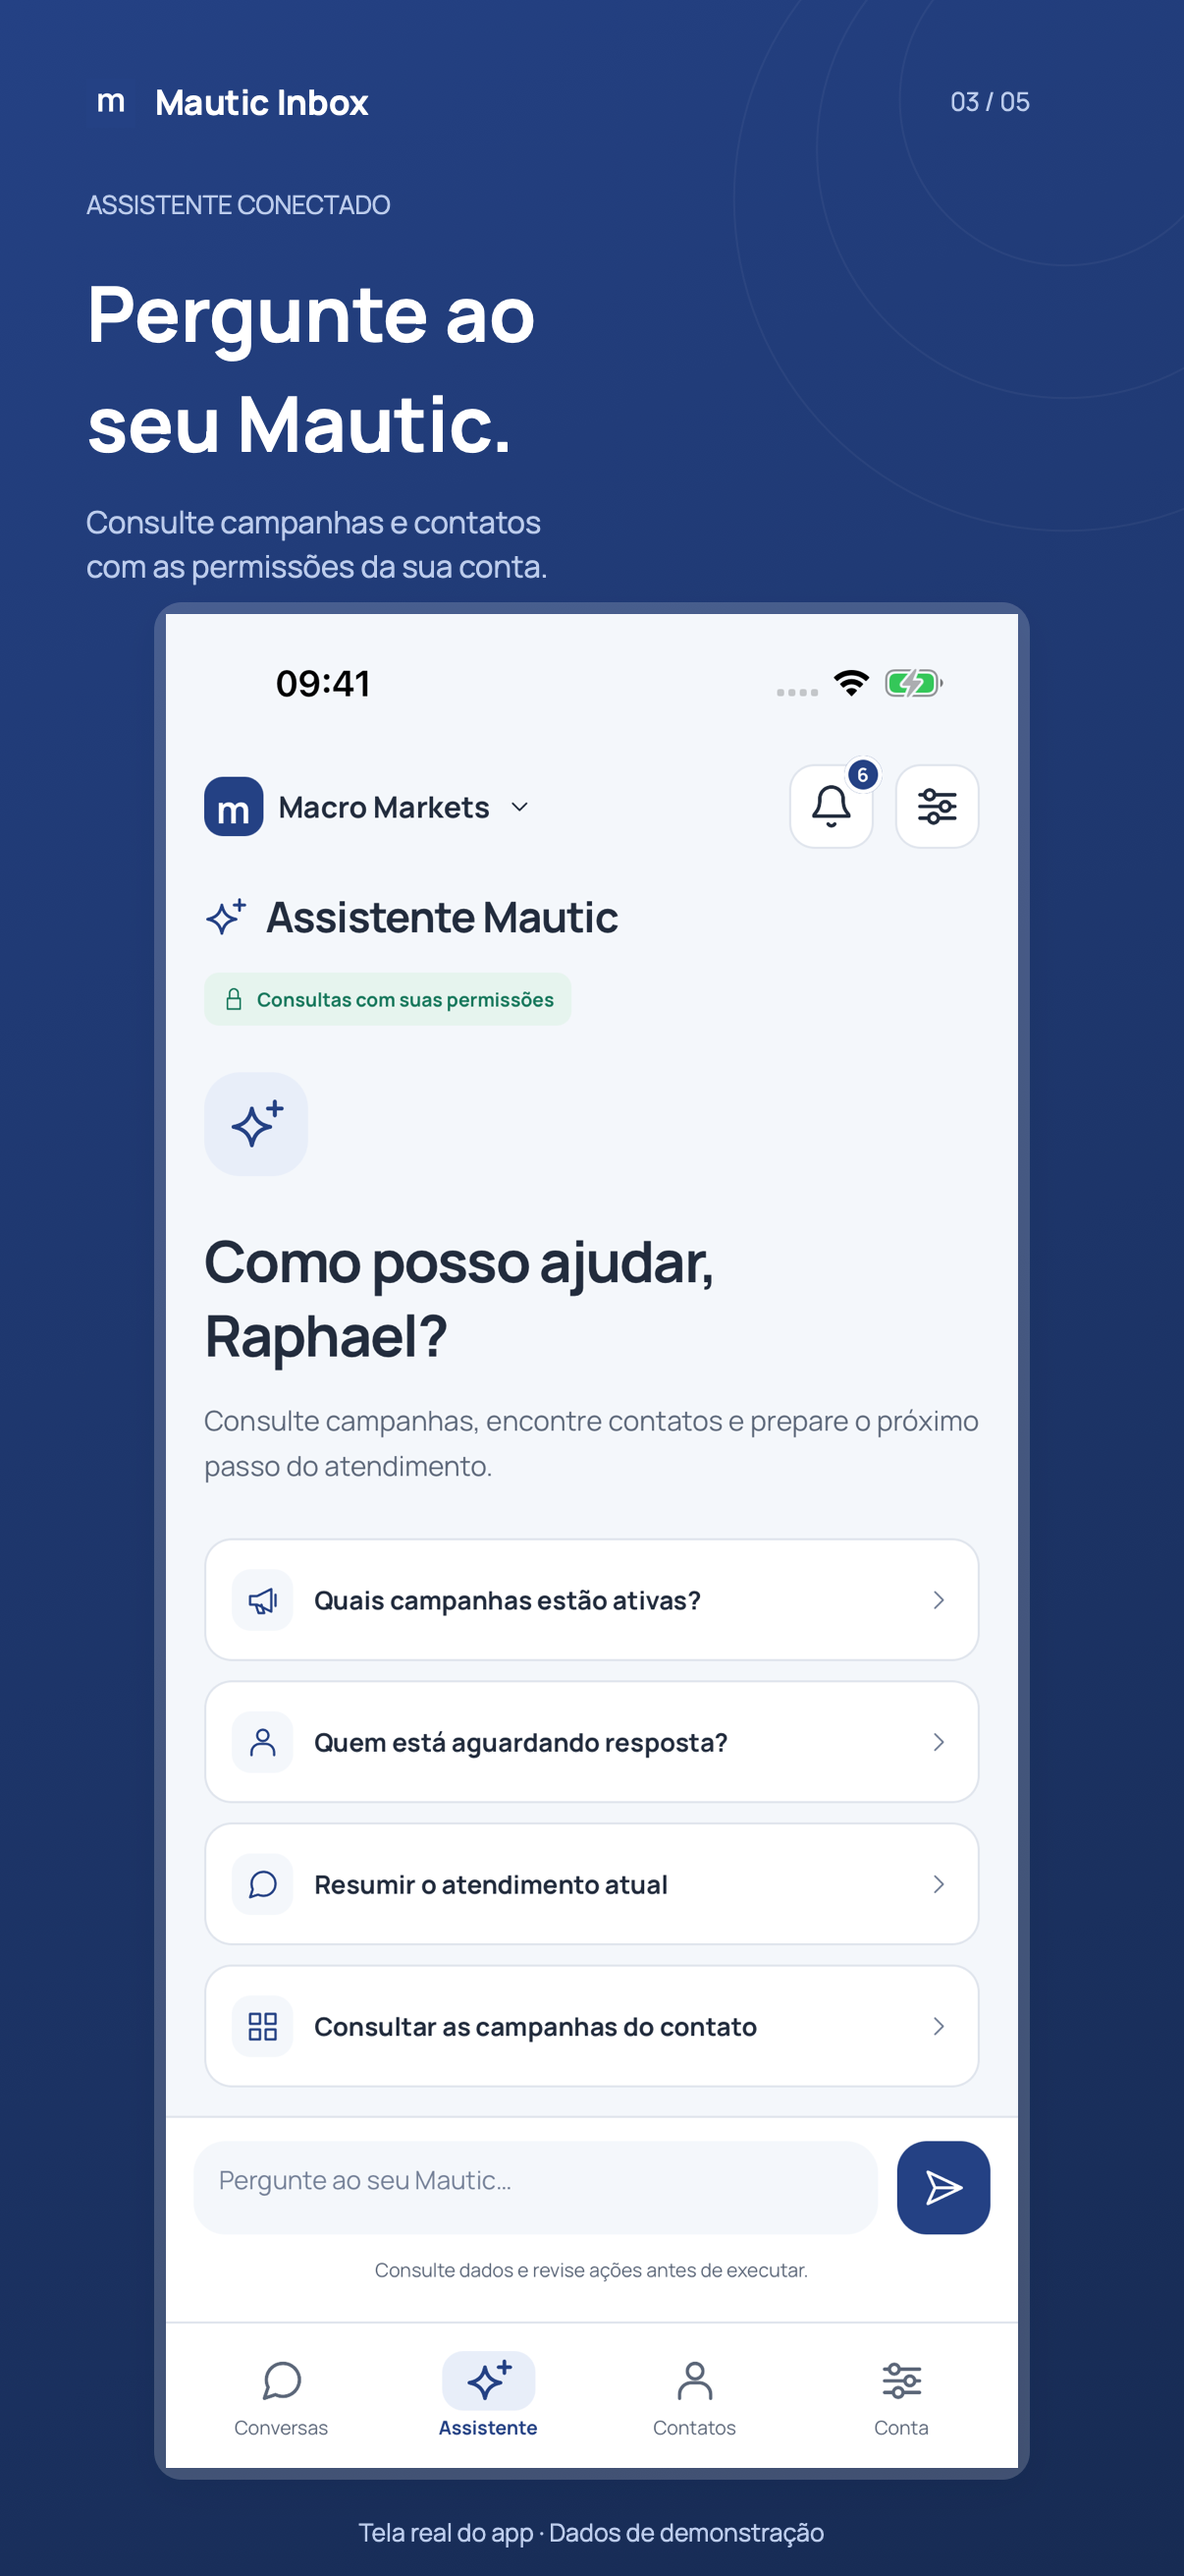
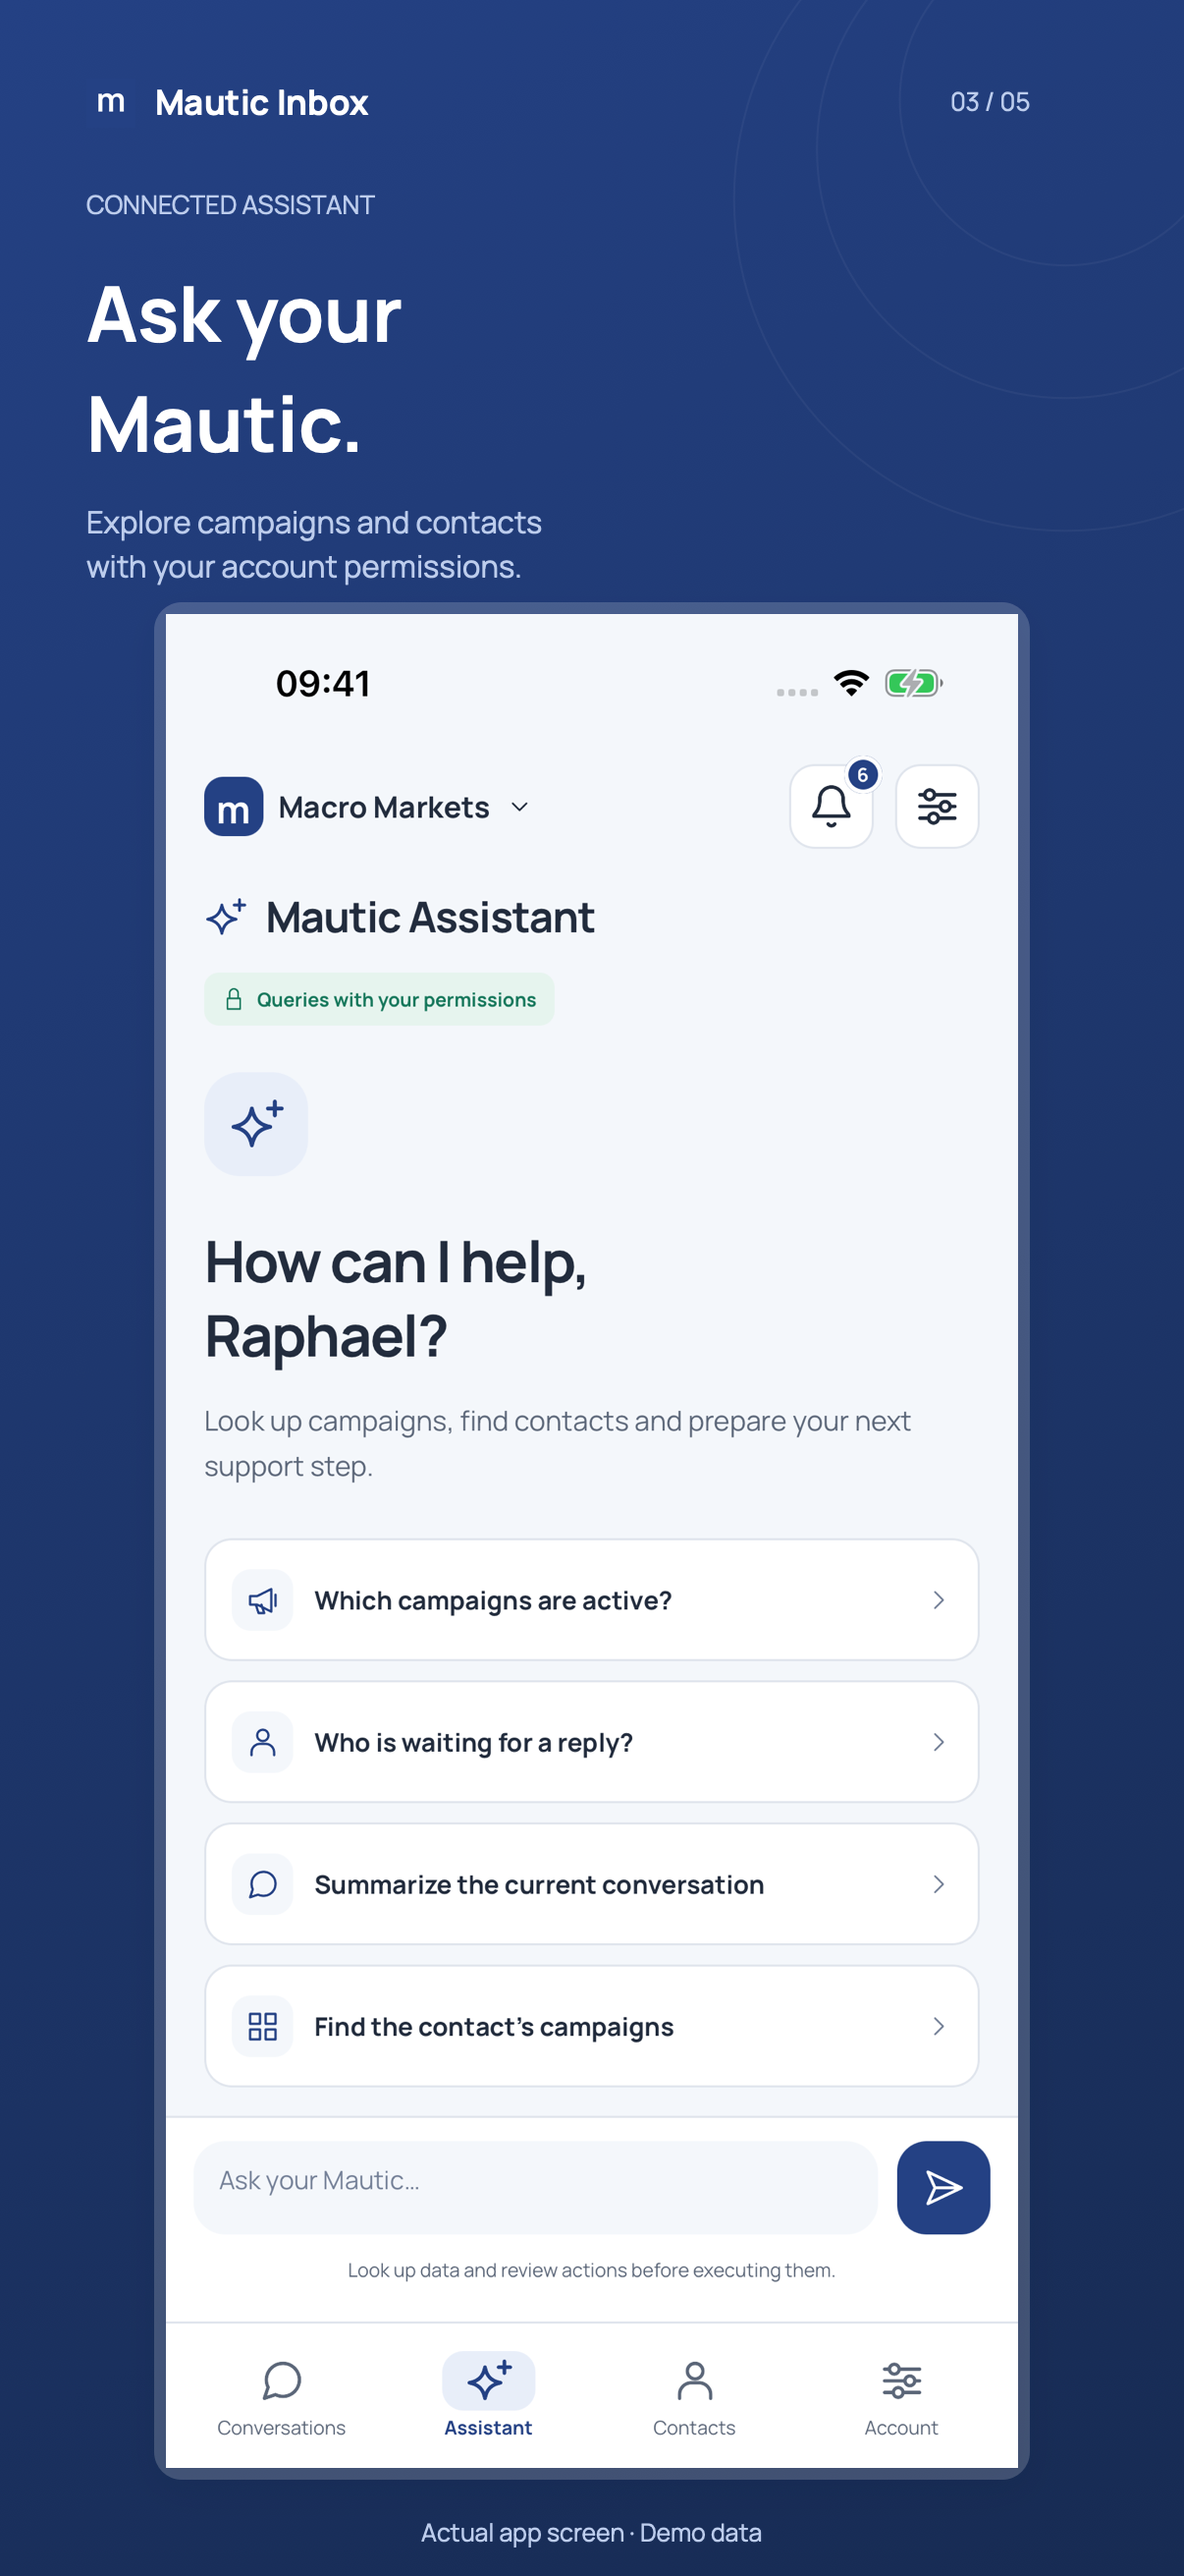
docs: present Mautic Inbox in English with localized screenshots

diff --git a/README.md b/README.md
@@ -1,61 +1,61 @@
 # Mautic Inbox
 
-## Seu atendimento. Onde você estiver.
+## Your support desk. Wherever you are.
 
-**Leve as conversas do seu Mautic para o celular.** Responda com o histórico à mão, acompanhe comentários e consulte campanhas e contatos com um assistente conectado à sua instalação.
+**Bring your Mautic conversations to your phone.** Reply with the history at hand, follow social comments and explore campaigns and contacts with an assistant connected to your installation.
 
-![Mautic Inbox: conversas, comentários e assistente conectados ao seu Mautic](docs/media/hero.png)
+![Mautic Inbox: conversations, comments and an assistant connected to your Mautic](docs/media/hero.png)
 
-Feito para equipes que atendem clientes e precisam acompanhar a fila mesmo longe do computador. No iPhone, no iPad e no Android, seu Mautic acompanha o seu trabalho.
+Built for customer-facing teams that need to keep an eye on their queue away from the computer. On iPhone, iPad and Android, your Mautic goes with you.
 
-**[Acompanhe o lançamento e as próximas versões](https://github.com/raphaelcangucu/mautic-inbox-mobile/releases)** · [Privacidade e suporte](https://mautic-inbox-privacidade-e-suporte.me-21d3.chatgpt.site/)
+**[Follow the launch and upcoming releases](https://github.com/raphaelcangucu/mautic-inbox-mobile/releases)** · [Privacy and support](https://mautic-inbox-privacidade-e-suporte.me-21d3.chatgpt.site/)
 
-### Mais contexto para cada resposta
+### More context for every reply
 
-- **Veja o que precisa de atenção.** Reúna os canais conectados ao seu Mautic e filtre a fila por canal, responsável e estado. WhatsApp, Instagram, Facebook e WebChat entram no mesmo fluxo de atendimento.
-- **Retome a conversa de onde parou.** Consulte o histórico, registre notas internas e use respostas prontas. Histórico local e rascunhos ajudam a continuar o trabalho entre telas.
-- **Pergunte ao seu Mautic.** Consulte campanhas, contatos e informações da instalação pelo assistente, com as permissões da sua conta e consentimento para compartilhar dados com o provedor de IA.
-- **Encontre a pessoa certa.** Busque contatos por nome, e-mail ou telefone. Combine segmentos e campanhas e abra uma conversa pelo WhatsApp QR quando houver telefone válido e conexão ativa.
-- **Cuide também dos comentários.** Acompanhe Instagram e Facebook, marque spam e organize a moderação na fila. Bloquear um autor no atendimento não bloqueia seu perfil na rede social.
-- **Alterne entre seus Mautics.** Adicione as URLs, autentique suas contas e mantenha as sessões separadas. Receba notificações enviadas pela instalação que você conectou.
+- **See what needs attention.** Bring your connected channels together and filter the queue by channel, assignee and status. WhatsApp, Instagram, Facebook and WebChat share the same support workflow.
+- **Pick up where you left off.** Read the history, add internal notes and use saved replies. Local history and drafts help you continue your work as you move between screens.
+- **Ask your Mautic.** Explore campaigns, contacts and installation information with the assistant, using your account permissions and explicit consent before sharing data with the AI provider.
+- **Find the right contact.** Search by name, email or phone. Combine segment and campaign filters, then open a WhatsApp QR conversation when the contact has a valid phone number and an active connection is available.
+- **Keep comments in the conversation.** Follow Instagram and Facebook comments, mark spam and organize moderation in the support queue. Blocking an author in the queue does not block their social media profile.
+- **Switch between your Mautics.** Add installation URLs, sign in to your accounts and keep sessions separate. Receive notifications sent by the installation you connected.
 
-### Conheça o aplicativo
+### See the app in action
 
 <table>
   <tr>
-    <td align="center" width="33%"><a href="docs/media/01-conversas.png"><img src="docs/media/01-conversas.png" width="250" alt="Fila de conversas com filtros por canal, responsável e estado" /></a><br /><strong>Sua fila, à vista</strong></td>
-    <td align="center" width="33%"><a href="docs/media/02-chat.png"><img src="docs/media/02-chat.png" width="250" alt="Chat compacto com histórico e ações ao lado da mensagem" /></a><br /><strong>Responda com contexto</strong></td>
-    <td align="center" width="33%"><a href="docs/media/03-assistente.png"><img src="docs/media/03-assistente.png" width="250" alt="Assistente conectado para consultar campanhas e contatos" /></a><br /><strong>Consulte seu Mautic</strong></td>
+    <td align="center" width="33%"><a href="docs/media/01-conversas.png"><img src="docs/media/01-conversas.png" width="250" alt="Conversation queue with channel, assignee and status filters" /></a><br /><strong>Your queue, in view</strong></td>
+    <td align="center" width="33%"><a href="docs/media/02-chat.png"><img src="docs/media/02-chat.png" width="250" alt="Compact chat with conversation history and actions next to the message input" /></a><br /><strong>Reply with context</strong></td>
+    <td align="center" width="33%"><a href="docs/media/03-assistente.png"><img src="docs/media/03-assistente.png" width="250" alt="Connected assistant for exploring campaigns and contacts" /></a><br /><strong>Ask your Mautic</strong></td>
   </tr>
 </table>
 <table>
   <tr>
-    <td align="center" width="50%"><a href="docs/media/04-comentarios.png"><img src="docs/media/04-comentarios.png" width="250" alt="Fila de comentários do Instagram e Facebook" /></a><br /><strong>Acompanhe sua comunidade</strong></td>
-    <td align="center" width="50%"><a href="docs/media/05-conexoes.png"><img src="docs/media/05-conexoes.png" width="250" alt="Tela de conexões para alternar entre instalações Mautic" /></a><br /><strong>Vários Mautics, um app</strong></td>
+    <td align="center" width="50%"><a href="docs/media/04-comentarios.png"><img src="docs/media/04-comentarios.png" width="250" alt="Instagram and Facebook comments in the support queue" /></a><br /><strong>Follow your community</strong></td>
+    <td align="center" width="50%"><a href="docs/media/05-conexoes.png"><img src="docs/media/05-conexoes.png" width="250" alt="Connections screen for switching between Mautic installations" /></a><br /><strong>Your Mautics, one app</strong></td>
   </tr>
 </table>
 
-*Imagens da interface nativa iOS com dados de demonstração. Toque nas imagens para ver os detalhes. Disponível em português, inglês e espanhol, com temas claro e escuro.*
+*Native iOS screens with demo data. Click an image to see the details. Available in English, Portuguese and Spanish, with light and dark themes. Messages and contact names keep their original language.*
 
-### Prepare sua equipe para atender pelo celular
+### Bring mobile support to your team
 
-1. Tenha uma instalação Mautic com a [Inbox Mobile API compatível](https://github.com/raphaelcangucu/mautic-inbox-bundle).
-2. Conecte a URL da instalação e entre com seu usuário autorizado.
-3. Acompanhe a fila e atenda pelos canais habilitados para a sua conta.
+1. Use a Mautic installation with the [compatible Inbox Mobile API](https://github.com/raphaelcangucu/mautic-inbox-bundle).
+2. Connect your installation URL and sign in with an authorized account.
+3. Follow the queue and reply through the channels enabled for your account.
 
-O aplicativo é gratuito. Canais, assistente, moderação e notificações dependem da configuração da sua instalação e das permissões do usuário.
+The app is free. Channels, assistant, moderation and notifications depend on your installation settings and user permissions.
 
-### Download nas lojas
+### Get the app
 
-| Plataforma | Disponibilidade pública |
+| Platform | Public availability |
 | --- | --- |
-| iPhone e iPad · App Store | Em breve — versão enviada e aguardando revisão da Apple. |
-| Android · Google Play | Em breve — sem link público de download confirmado. |
+| iPhone and iPad · App Store | Coming soon — the submitted version is awaiting Apple's review. |
+| Android · Google Play | Coming soon — a public download link has not been confirmed yet. |
 
-Os links oficiais de download serão adicionados após a liberação nas lojas. Enquanto isso, **[acompanhe as versões no GitHub](https://github.com/raphaelcangucu/mautic-inbox-mobile/releases)** ou compile o código disponível neste repositório.
+Official download links will be added once the app is available in the stores. Until then, **[follow releases on GitHub](https://github.com/raphaelcangucu/mautic-inbox-mobile/releases)** or build the app from the source in this repository.
 
 <details>
-<summary><strong>Para desenvolvedores: instalação, build e publicação</strong></summary>
+<summary><strong>For developers: setup, build and release</strong></summary>
 
 ## Install and verify
 
@@ -96,12 +96,13 @@ bundle exec fastlane android bundle
 
 Provide private credentials through environment variables listed in `.env.example`, with their actual files outside the repository and owner-only permissions. iOS also requires an existing distribution certificate/profile in the local signing environment. APNs provider keys stay on the Mautic server; they never belong in the app. Existing app identifiers and build numbers are preserved. Increase build numbers before a new store binary upload.
 
-Publication metadata, localized headlines and asset-generation scripts are versioned. Screenshots, evidence, videos, signed binaries and review-account instructions are generated or supplied locally and are not committed. Store-upload gates fail until current-build captures and visual/physical validation are supplied; cloning this repository does not invent release approval.
+Publication metadata, localized headlines, asset-generation scripts and selected public product images are versioned. Full capture sets, release evidence, videos, signed binaries and review-account instructions are generated or supplied locally and are not committed. Store-upload gates fail until current-build captures and visual/physical validation are supplied; cloning this repository does not invent release approval.
 
 For subsequent listing updates, see [the asset publication workflow](docs/ASSETS-PUBLICACAO-PROXIMAS-VERSOES.md). `ios store_listing` cannot overwrite a version under active Apple review. Submission remains a separate action.
 
 ## Repository scope
 
 This repository contains app source, runtime assets, pinned dependency lockfiles, unit tests, build/release tooling and public listing text. Local review environments, internal QA history, cached dependencies and generated native projects are excluded. Never commit credentials, signing keys, authentication tokens, customer data or release binaries.
+
 
 </details>
